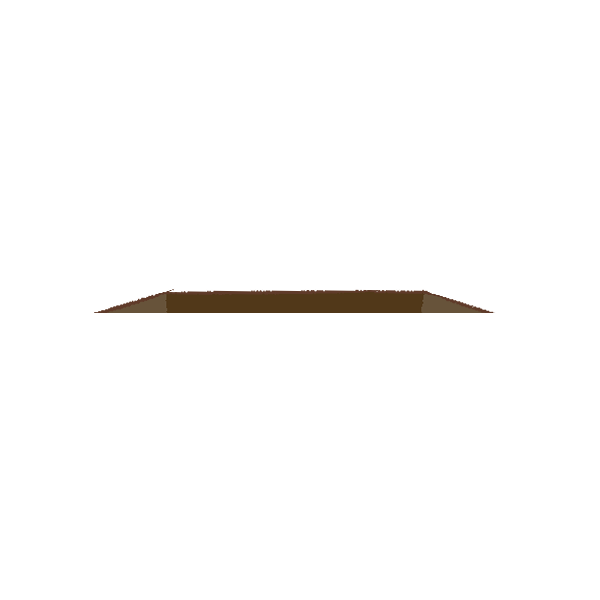
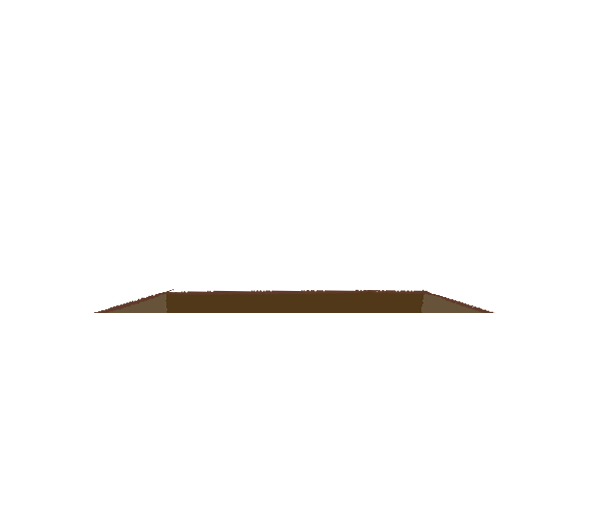
Added cart sprites

Changed region(s): [[0.15, 0.458, 0.81, 0.6107]]

diff --git a/core/src/main/java/dev/lyze/sar/systems/player/PlayerDrawerSystem.java b/core/src/main/java/dev/lyze/sar/systems/player/PlayerDrawerSystem.java
@@ -1,0 +1,88 @@
+package dev.lyze.sar.systems.player;
+
+import com.artemis.ComponentMapper;
+import com.artemis.annotations.All;
+import com.artemis.annotations.Wire;
+import com.artemis.systems.IteratingSystem;
+import com.badlogic.gdx.graphics.g2d.Sprite;
+import com.badlogic.gdx.graphics.g2d.SpriteBatch;
+import com.badlogic.gdx.graphics.g2d.TextureAtlas;
+import com.badlogic.gdx.math.MathUtils;
+import com.badlogic.gdx.utils.viewport.ExtendViewport;
+import dev.lyze.sar.components.movement.PositionComponent;
+import dev.lyze.sar.components.movement.RotationComponent;
+import dev.lyze.sar.components.movement.SizeComponent;
+import dev.lyze.sar.components.player.PlayerComponent;
+import dev.lyze.sar.eventsystem.EventManager;
+import lombok.var;
+
+@All({PlayerComponent.class, PositionComponent.class, RotationComponent.class, SizeComponent.class})
+public class PlayerDrawerSystem extends IteratingSystem {
+    @Wire private SpriteBatch batch;
+    @Wire private EventManager eventManager;
+    @Wire private ExtendViewport viewport;
+    @Wire private TextureAtlas mainAtlas;
+
+    private ComponentMapper<PositionComponent> positionMapper;
+    private ComponentMapper<RotationComponent> rotationMapper;
+    private ComponentMapper<SizeComponent> sizeMapper;
+
+    private Sprite minecartBackSprite, minecartFrontSprite;
+    private TextureAtlas.AtlasRegion crouch, fall, idle, jump, landing;
+
+    @Override
+    protected void initialize() {
+        setupMinecart();
+
+        crouch = mainAtlas.findRegion("Fox/Crouch");
+        fall = mainAtlas.findRegion("Fox/Fall");
+        idle = mainAtlas.findRegion("Fox/Idle");
+        jump = mainAtlas.findRegion("Fox/Jump");
+        landing = mainAtlas.findRegion("Fox/Landing");
+    }
+
+    private void setupMinecart() {
+        minecartBackSprite = new Sprite(mainAtlas.findRegion("Misc/Minecart_back"));
+        minecartFrontSprite = new Sprite(mainAtlas.findRegion("Misc/Minecart_front"));
+
+        setupMinecartSprite(minecartBackSprite);
+        setupMinecartSprite(minecartFrontSprite);
+    }
+
+    private void setupMinecartSprite(Sprite sprite) {
+        sprite.setOrigin(sprite.getWidth() / 2f, 0);
+    }
+
+    @Override
+    protected void begin() {
+        viewport.apply();
+
+        batch.setProjectionMatrix(viewport.getCamera().combined);
+        batch.begin();
+    }
+
+    @Override
+    protected void process(int entityId) {
+        var position = positionMapper.get(entityId).getPosition();
+        var size = sizeMapper.get(entityId);
+        var rotation = rotationMapper.get(entityId).getRotation();
+
+        float scale = 1 / 600f * 3;
+        minecartBackSprite.setScale(scale);
+        minecartFrontSprite.setScale(scale);
+
+        minecartBackSprite.setOriginBasedPosition(position.x, position.y);
+        minecartFrontSprite.setOriginBasedPosition(position.x, position.y);
+
+        minecartBackSprite.setRotation(rotation * MathUtils.radiansToDegrees);
+        minecartFrontSprite.setRotation(rotation * MathUtils.radiansToDegrees);
+
+        minecartBackSprite.draw(batch);
+        minecartFrontSprite.draw(batch);
+    }
+
+    @Override
+    protected void end() {
+        batch.end();
+    }
+}

diff --git a/core/src/main/java/dev/lyze/sar/systems/CameraSystem.java b/core/src/main/java/dev/lyze/sar/systems/CameraSystem.java
@@ -6,6 +6,8 @@ import com.artemis.annotations.Wire;
 import com.artemis.systems.IteratingSystem;
 import com.badlogic.gdx.Gdx;
 import com.badlogic.gdx.Input;
+import com.badlogic.gdx.graphics.Camera;
+import com.badlogic.gdx.graphics.OrthographicCamera;
 import com.badlogic.gdx.math.Vector2;
 import com.badlogic.gdx.utils.viewport.ExtendViewport;
 import dev.lyze.sar.components.player.PlayerComponent;
@@ -35,11 +37,13 @@ public class CameraSystem extends IteratingSystem {
 
         viewport.getCamera().position.set(position.getPosition().x + size.getWidth() / 2f, position.getPosition().y + size.getHeight() / 2f, 0);
 
-        // debugMovement();
+        //debugMovement();
     }
 
     private void debugMovement() {
-        var position = new Vector2(viewport.getCamera().position.x, viewport.getCamera().position.y);
+        var camera = (OrthographicCamera) viewport.getCamera();
+
+        var position = new Vector2(camera.position.x, camera.position.y);
 
         if (Gdx.input.isKeyPressed(Input.Keys.W))
             position.set(position.x , position.y + MOVEMENT_SPEED * Gdx.graphics.getDeltaTime());
@@ -51,6 +55,11 @@ public class CameraSystem extends IteratingSystem {
         if (Gdx.input.isKeyPressed(Input.Keys.D))
             position.set(position.x + MOVEMENT_SPEED * Gdx.graphics.getDeltaTime(), position.y);
 
-        viewport.getCamera().position.set(position.x, position.y, viewport.getCamera().position.z);
+        if (Gdx.input.isKeyPressed(Input.Keys.UP))
+            camera.zoom += 100f * Gdx.graphics.getDeltaTime();
+        if (Gdx.input.isKeyPressed(Input.Keys.DOWN))
+            camera.zoom -= 100f * Gdx.graphics.getDeltaTime();
+
+        camera.position.set(position.x, position.y, camera.position.z);
     }
 }

diff --git a/core/src/main/java/dev/lyze/sar/GameScreen.java b/core/src/main/java/dev/lyze/sar/GameScreen.java
@@ -4,8 +4,11 @@ import com.artemis.World;
 import com.artemis.WorldConfigurationBuilder;
 import com.badlogic.gdx.ScreenAdapter;
 import com.badlogic.gdx.graphics.Color;
+import com.badlogic.gdx.graphics.OrthographicCamera;
+import com.badlogic.gdx.graphics.PerspectiveCamera;
 import com.badlogic.gdx.graphics.Texture;
 import com.badlogic.gdx.graphics.g2d.SpriteBatch;
+import com.badlogic.gdx.graphics.g2d.TextureAtlas;
 import com.badlogic.gdx.graphics.g2d.TextureRegion;
 import com.badlogic.gdx.utils.ScreenUtils;
 import com.badlogic.gdx.utils.viewport.ExtendViewport;
@@ -13,6 +16,7 @@ import dev.lyze.sar.eventsystem.EventManager;
 import dev.lyze.sar.eventsystem.events.ResizeEvent;
 import dev.lyze.sar.systems.debug.*;
 import dev.lyze.sar.systems.*;
+import dev.lyze.sar.systems.player.PlayerDrawerSystem;
 import dev.lyze.sar.systems.player.PlayerFallStateSystem;
 import dev.lyze.sar.systems.player.PlayerFollowTrackSystem;
 import lombok.var;
@@ -37,6 +41,9 @@ public class GameScreen extends ScreenAdapter {
 				.with(new PlayerDebugDrawerSystem())
 				.with(new PlayerConstantsDebugger())
 				.with(new GizmoSystem())
+
+				.with(new PlayerDrawerSystem())
+
 				.build();
 
 		var batch = new SpriteBatch();
@@ -44,6 +51,7 @@ public class GameScreen extends ScreenAdapter {
 		builder.register(new ExtendViewport(24, 13.5f));
 		builder.register(new EventManager());
 		builder.register(batch);
+		builder.register(new TextureAtlas("Atlases/Main.atlas"));
 		builder.register(new ShapeDrawer(batch, new TextureRegion(new Texture("Pixel.png"))));
 
 		world = new World(builder);

diff --git a/core/src/main/java/dev/lyze/sar/systems/player/PlayerFollowTrackSystem.java b/core/src/main/java/dev/lyze/sar/systems/player/PlayerFollowTrackSystem.java
@@ -40,7 +40,7 @@ public class PlayerFollowTrackSystem extends IteratingSystem {
         var velocity = velocityMapper.get(entityId);
 
         if (Gdx.input.isKeyJustPressed(Input.Keys.SPACE)) {
-            velocity.getVelocity().set(10, 50);
+            velocity.getVelocity().set(playerConstants.jumpVelocity);
             position.getPosition().mulAdd(velocity.getVelocity(), world.getDelta());
 
             world.edit(entityId)

diff --git a/core/src/main/java/dev/lyze/sar/systems/debug/PlayerDebugDrawerSystem.java b/core/src/main/java/dev/lyze/sar/systems/debug/PlayerDebugDrawerSystem.java
@@ -32,8 +32,6 @@ public class PlayerDebugDrawerSystem extends IteratingSystem {
     protected void initialize() {
         font = new BitmapFont();
 
-        viewport.setUnitsPerPixel(0.75f);
-
         eventManager.addListener(new EventListener<ResizeEvent>(ResizeEvent.class) {
             @Override
             protected void fire(ResizeEvent event) {

diff --git a/core/src/main/java/dev/lyze/sar/components/player/PlayerConstants.java b/core/src/main/java/dev/lyze/sar/components/player/PlayerConstants.java
@@ -12,4 +12,6 @@ public class PlayerConstants {
     public float trackDeceleration = -100f;
 
     public float trackMinSpeed = 4f;
+
+    public Vector2 jumpVelocity = new Vector2(10f, 50f);
 }
